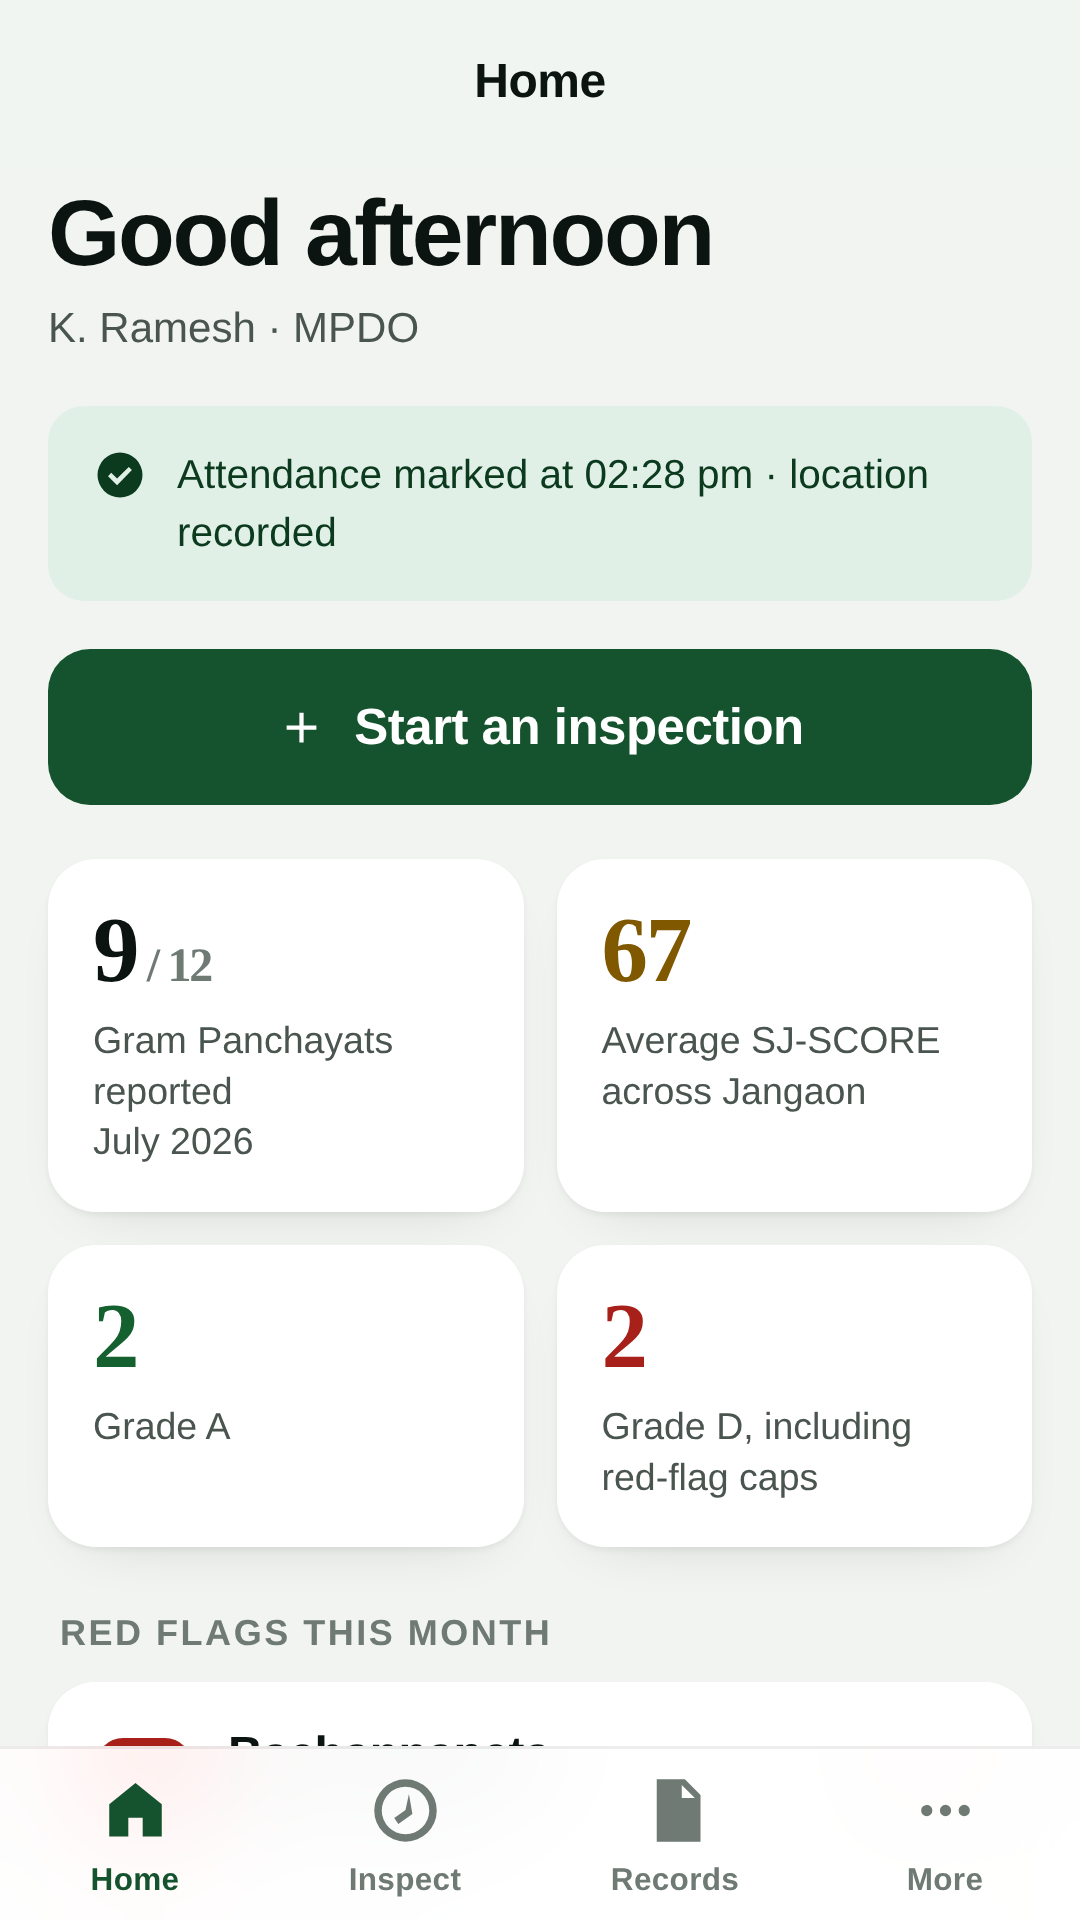
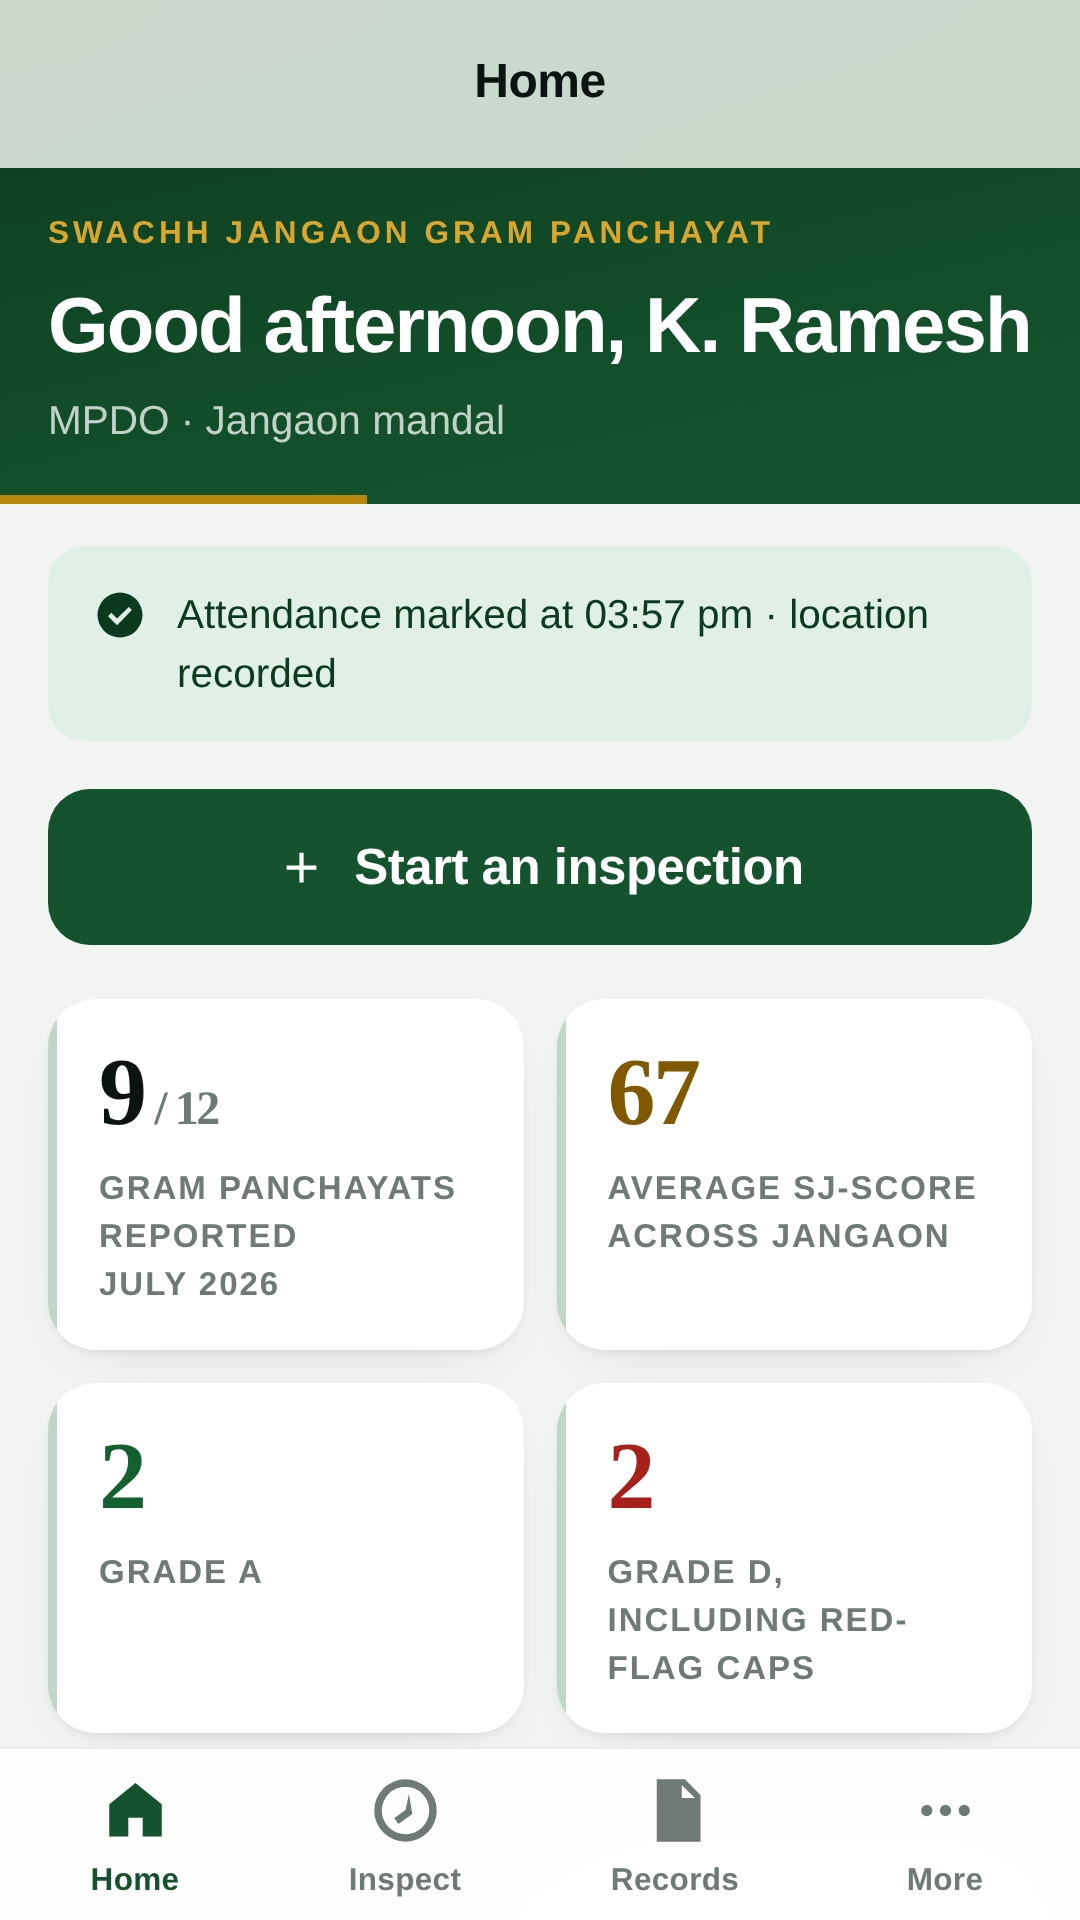
Add files via upload

diff --git a/index.html b/index.html
@@ -37,7 +37,7 @@
   /* the Collectorate seal green */
   --seal:#14532D; --seal-2:#1B6E3C; --seal-deep:#0C3A1E; --seal-tint:#E3EFE8; --seal-line:#BFD6C8;
   /* gold — fill and text weights are different colours on purpose */
-  --gold:#B8860B; --gold-ink:#805800; --gold-tint:#FAF1DA;
+  --gold:#B8860B; --gold-2:#D9A62E; --gold-ink:#805800; --gold-tint:#FAF1DA;
   /* states */
   --flag:#A8201A; --flag-tint:#FAE8E6;
   --warn:#8A4F06; --warn-tint:#FAEFDD;
@@ -121,6 +121,15 @@ main{flex:1;padding-bottom:calc(var(--tabh) + 10px)}
 .nav .side.r{justify-content:flex-end}
 .nav .side button{min-height:44px;padding:0 10px;font-size:16px;color:var(--seal-2);font-weight:550;border-radius:10px}
 .nav .side button:active{background:var(--surface-3)}
+.masthead{background:linear-gradient(168deg, var(--seal-deep) 0%, var(--seal) 82%);color:#fff;
+  margin:calc(-1 * env(safe-area-inset-top) - 56px) 0 4px;
+  padding:calc(env(safe-area-inset-top) + 66px) var(--pad) 18px;position:relative}
+.masthead::after{content:"";position:absolute;left:0;right:0;bottom:0;height:3px;
+  background:linear-gradient(90deg, var(--gold) 0%, var(--gold) 34%, transparent 34%)}
+.masthead .eyebrow{font-size:10.5px;font-weight:800;letter-spacing:.13em;text-transform:uppercase;color:var(--gold-2)}
+.masthead h2{font-size:26px;font-weight:800;letter-spacing:-.025em;color:#fff;margin-top:5px}
+.masthead p{font-size:13.5px;color:rgba(255,255,255,.75);margin-top:4px}
+html[data-sun="1"] .masthead{background:var(--seal-deep)}
 .bigtitle{padding:4px var(--pad) 2px}
 .bigtitle h2{font-size:31px;font-weight:700;letter-spacing:-.025em;line-height:1.14}
 .bigtitle p{font-size:14px;color:var(--ink-2);margin-top:4px}
@@ -186,14 +195,26 @@ main{flex:1;padding-bottom:calc(var(--tabh) + 10px)}
 .tabs button[aria-selected=true]{color:var(--seal)}
 .tabs .dot{position:absolute;top:7px;margin-left:24px;width:9px;height:9px;border-radius:50%;background:var(--flag);border:2px solid var(--surface)}
 
-/* ---------- sign in ---------- */
+/* ---------- sign in: brand band above, credentials below ---------- */
 #signin{position:fixed;inset:0;z-index:80;background:var(--canvas);display:flex;flex-direction:column;
-  padding:calc(env(safe-area-inset-top) + 7vh) 24px calc(env(safe-area-inset-bottom) + 24px);
   overflow-y:auto;-webkit-overflow-scrolling:touch}
-#signin .mark{width:74px;height:74px;border-radius:20px;margin-bottom:20px;box-shadow:var(--shadow-lift)}
-#signin h1{font-size:30px;font-weight:700;letter-spacing:-.027em;line-height:1.12}
-#signin .sub{font-size:15.5px;color:var(--ink-2);margin-top:8px;margin-bottom:24px;max-width:20em;line-height:1.45}
+.brandband{background:linear-gradient(168deg, var(--seal-deep) 0%, var(--seal) 78%);color:#fff;
+  padding:calc(env(safe-area-inset-top) + 44px) 26px 30px;position:relative}
+.brandband::after{content:"";position:absolute;left:0;right:0;bottom:0;height:3px;
+  background:linear-gradient(90deg, var(--gold) 0%, var(--gold) 34%, transparent 34%)}
+.brandband .mark{width:64px;height:64px;border-radius:16px;margin-bottom:18px;background:#fff;
+  box-shadow:0 6px 20px rgba(0,0,0,.28)}
+.brandband .eyebrow{font-size:11px;font-weight:800;letter-spacing:.14em;text-transform:uppercase;
+  color:var(--gold-2);margin-bottom:7px}
+.brandband h1{font-size:34px;font-weight:800;letter-spacing:-.03em;line-height:1.06;color:#fff}
+.brandband .sub{font-size:15px;color:rgba(255,255,255,.82);margin-top:10px;max-width:23em;line-height:1.5}
+.brandband .two{font-size:14px;color:rgba(255,255,255,.66);margin-top:14px;max-width:24em;line-height:1.55;
+  padding-top:13px;border-top:1px solid rgba(255,255,255,.16)}
+.siwrap{padding:26px 22px calc(env(safe-area-inset-bottom) + 24px);display:flex;flex-direction:column;flex:1}
+.siwrap .hdr2{font-size:12px;font-weight:800;letter-spacing:.1em;text-transform:uppercase;color:var(--ink-3);
+  padding:0 4px 9px}
 #signin .card{margin-bottom:12px}
+html[data-sun="1"] .brandband{background:var(--seal-deep)}
 .msg{font-size:14.5px;min-height:22px;padding:2px 4px 8px;color:var(--flag);line-height:1.4}
 .msg.info{color:var(--ink-2)}
 .fineprint{font-size:12.5px;color:var(--ink-3);text-align:center;margin-top:auto;padding-top:26px;line-height:1.55}
@@ -359,9 +380,11 @@ main{flex:1;padding-bottom:calc(var(--tabh) + 10px)}
 
 /* ---------- dashboard ---------- */
 .kpis{display:grid;grid-template-columns:1fr 1fr;gap:11px;margin:0 var(--pad)}
-.kpi{background:var(--surface);border-radius:var(--r-card);padding:15px;box-shadow:var(--shadow)}
-.kpi .n{font-family:var(--serif);font-size:31px;font-weight:700;letter-spacing:-.025em;line-height:1}
-.kpi .l{font-size:12.5px;color:var(--ink-2);margin-top:6px;line-height:1.35}
+.kpi{background:var(--surface);border-radius:var(--r-card);padding:15px 15px 14px 17px;box-shadow:var(--shadow);
+  position:relative;overflow:hidden}
+.kpi::before{content:"";position:absolute;left:0;top:0;bottom:0;width:3px;background:var(--seal-line)}
+.kpi .n{font-family:var(--serif);font-size:32px;font-weight:700;letter-spacing:-.025em;line-height:1;font-variant-numeric:tabular-nums}
+.kpi .l{font-size:11px;font-weight:750;letter-spacing:.06em;text-transform:uppercase;color:var(--ink-3);margin-top:8px;line-height:1.45}
 .pill{display:inline-flex;align-items:center;gap:5px;font-size:11.5px;font-weight:700;padding:4px 10px;border-radius:var(--r-pill);white-space:nowrap}
 .p-ok{background:var(--ok-tint);color:var(--ok)} .p-warn{background:var(--warn-tint);color:var(--warn)}
 .p-mut{background:var(--surface-3);color:var(--ink-2)} .p-bad{background:var(--flag-tint);color:var(--flag)}
@@ -448,10 +471,16 @@ body.kb .tabs,body.kb .strip{transform:translateY(160%);pointer-events:none}
 
 <!-- ============ SIGN IN ============ -->
 <div id="signin">
-  <img class="mark" src="icons/icon-192.png" alt="">
-  <h1>SJGP</h1>
-  <p class="sub">Swachh Jangaon Gram Panchayat<br>Collectorate, Jangaon · Rc.No.788/DPO/26/34</p>
-
+  <div class="brandband">
+    <img class="mark" src="icons/icon-192.png" alt="Government of Telangana emblem">
+    <p class="eyebrow">Collectorate &middot; Jangaon District</p>
+    <h1>SJGP</h1>
+    <p class="sub">Swachh Jangaon Gram Panchayat</p>
+    <p class="two">The district&rsquo;s field register for village sanitation &mdash; attendance, the monthly
+    100-mark evaluation with photographic evidence, and leave, working offline in the village.</p>
+  </div>
+  <div class="siwrap">
+  <p class="hdr2">Officer sign in</p>
   <div class="card" id="siCard">
     <div class="field" id="urlField" hidden>
       <label for="lUrl">Server address</label>
@@ -469,6 +498,7 @@ body.kb .tabs,body.kb .strip{transform:translateY(160%);pointer-events:none}
   <div class="msg" id="lMsg" role="alert"></div>
   <button class="btn" id="btnSignin">Sign in</button>
   <p class="fineprint">Access is limited to mobile numbers registered by the<br>District Panchayat Office &middot; Rc.No.788/DPO/26/34</p>
+  </div>
 </div>
 
 <!-- ============ ATTENDANCE GATE ============ -->
@@ -497,7 +527,11 @@ body.kb .tabs,body.kb .strip{transform:translateY(160%);pointer-events:none}
 
   <section class="screen on" id="s-home">
     <div class="nav"><span class="side"></span><h1 id="homeNavTitle">Home</h1><span class="side r" id="homeNavAction"></span></div>
-    <div class="bigtitle"><h2 id="homeHi">Good morning</h2><p id="homeSub"></p></div>
+    <div class="masthead">
+      <p class="eyebrow">Swachh Jangaon Gram Panchayat</p>
+      <h2 id="homeHi">Good morning</h2>
+      <p id="homeSub"></p>
+    </div>
     <div id="homeBody"></div>
   </section>
 

diff --git a/app.js b/app.js
@@ -13,7 +13,7 @@
      own, not one common album at the end.
    ============================================================ */
 const SERVER_URL = 'https://script.google.com/macros/s/AKfycbz8Ye9LqGB3bLWkTWcdw6JvU__U9K4VRaG-IFFpwc67G__1vdpMryV6NEfz5FJrnezS/exec';
-const APP_VERSION = '5.5';
+const APP_VERSION = '5.6';
 
 /* ---------------- rubric (identical to the printed framework) ---------------- */
 const PC = {A:'#166534',B:'#0B6478',C:'#8A4F06',D:'#1D4ED8',E:'#5B21B6',F:'#A8201A',G:'#334155'};
@@ -651,8 +651,10 @@ function renderHome(){
     if(!isViewer(u.role)) get({op:'attendance'}).then(r=>{ if(r&&r.ok){ DB.attToday=r.rows; if(TAB==='home') renderHome(); } }).catch(()=>{});
   }
   const h=new Date().getHours();
-  $('#homeHi').textContent = (h<12?'Good morning':h<17?'Good afternoon':'Good evening');
-  $('#homeSub').textContent = u.name + ' · ' + roleName(u.role);
+  const greet = (h<12?'Good morning':h<17?'Good afternoon':'Good evening');
+  const first = String(u.name||'').replace(/,.*$/,'').split(' ').slice(0,2).join(' ');
+  $('#homeHi').textContent = greet + (first ? ', ' + first : '');
+  $('#homeSub').textContent = roleName(u.role) + (u.mandal ? ' · ' + u.mandal + ' mandal' : ' · Jangaon District');
   const ym=ymNow(), body=$('#homeBody');
   let h2 = attendanceStrip();
 
@@ -2129,7 +2131,22 @@ function openLeaveOne(id){
   const ok = $('#lvOk'), no = $('#lvNo'), wd = $('#lvWithdraw');
   if(ok) ok.addEventListener('click', () => decideLeave(l.id, 'APPROVED', ($('#lvRem').value || '').trim()));
   if(no) no.addEventListener('click', () => decideLeave(l.id, 'REJECTED', ($('#lvRem').value || '').trim()));
-  if(wd) wd.addEventListener('click', () => decideLeave(l.id, 'CANCELLED', ''));
+  if(wd) wd.addEventListener('click', () => withdrawLeave(l.id));
+}
+
+async function withdrawLeave(id){
+  const l = (DB.leave || []).find(x => x.id === id); if(!l) return;
+  confirmSheet('Withdraw this application?',
+    leaveName(l.type) + ' · ' + lvSpan(l) + '. The days come back to your account at once.', true, async () => {
+    try{
+      if(l.sync === 'synced'){
+        const r = await post({kind:'leaveWithdraw', token: DB.session.token, id});
+        if(!r || !r.ok){ toast((r && r.error) || 'Could not withdraw'); return; }
+      }
+      l.status = 'CANCELLED'; l.decidedBy = ''; l.decidedAt = new Date().toISOString();
+      saveNow(); hideSheet(); renderLeave(); toast('Withdrawn — the days are back in your account');
+    }catch(e){ toast('No signal — try again when the phone is online'); }
+  });
 }
 
 async function decideLeave(id, status, remarks){

diff --git a/sw.js b/sw.js
@@ -5,7 +5,7 @@
    5.0 drops the Chart.js CDN. It was loaded on every start and never used,
    which cost bandwidth on a weak signal and put a third-party origin in a
    government app for no reason. */
-const CACHE = 'sjf-v5-5';
+const CACHE = 'sjf-v5-6';
 const SHELL = [
   './', './index.html', './app.js', './manifest.webmanifest', './privacy.html',
   './icons/icon-192.png', './icons/icon-512.png', './icons/icon-maskable-512.png',
